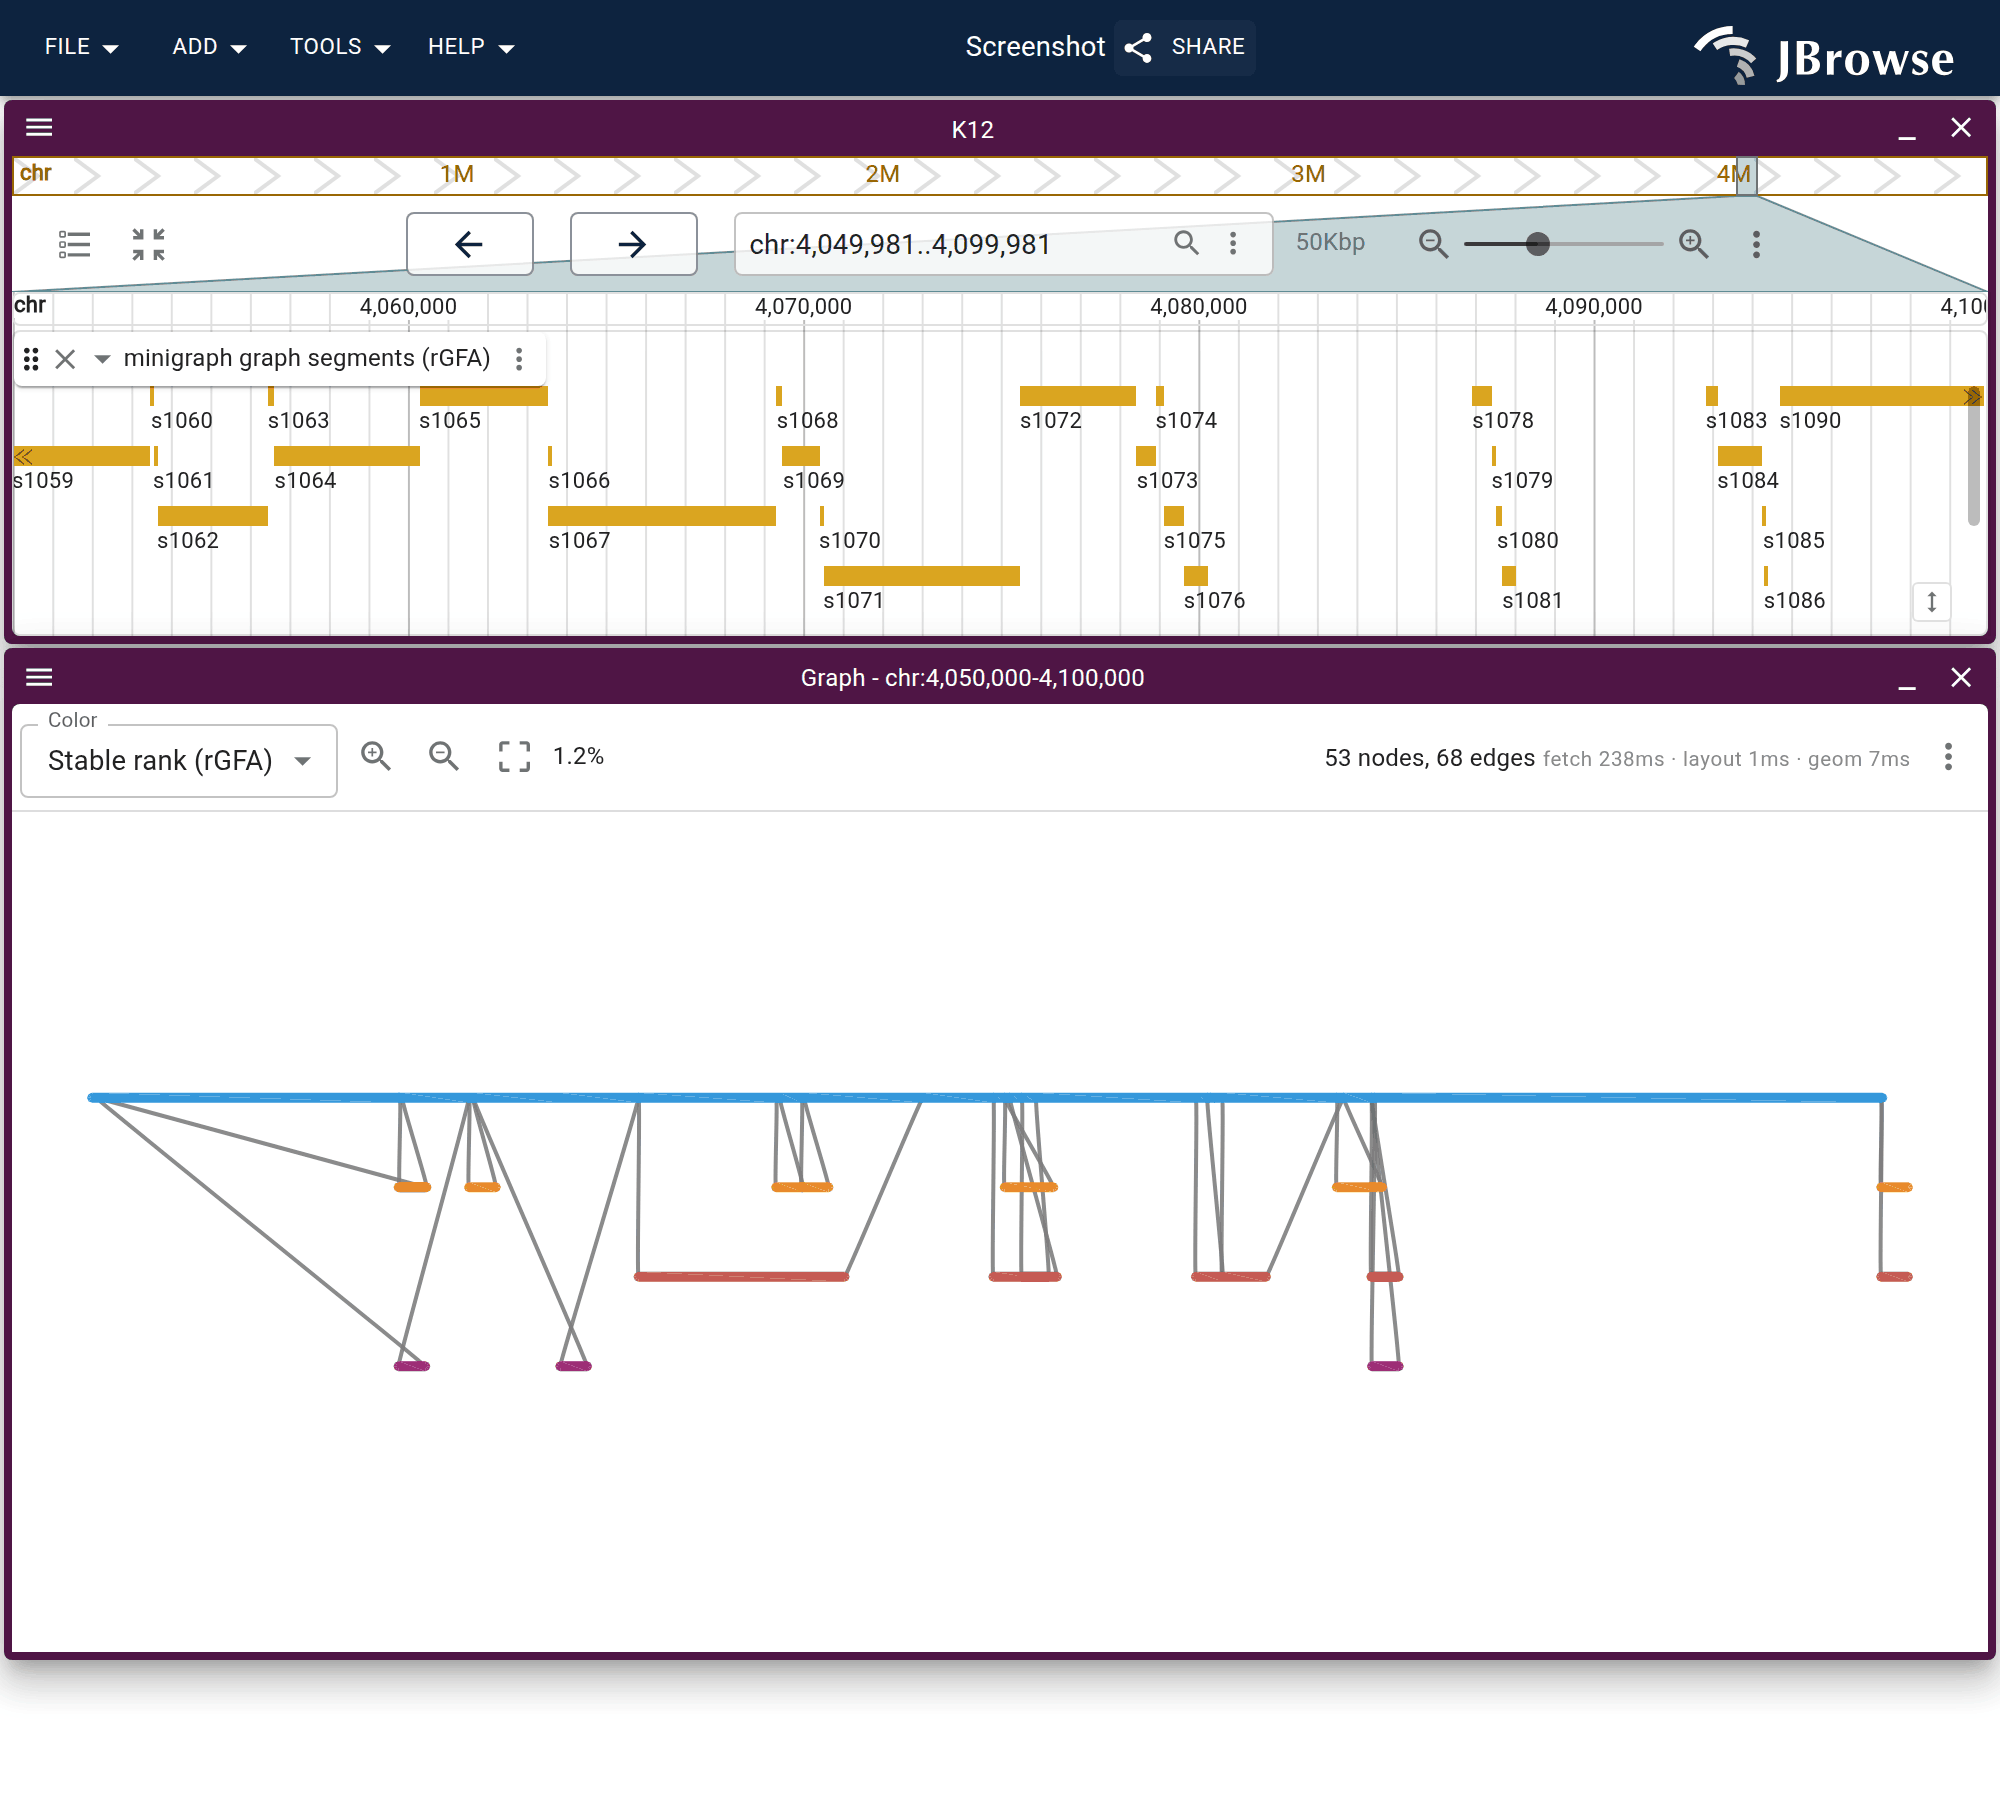
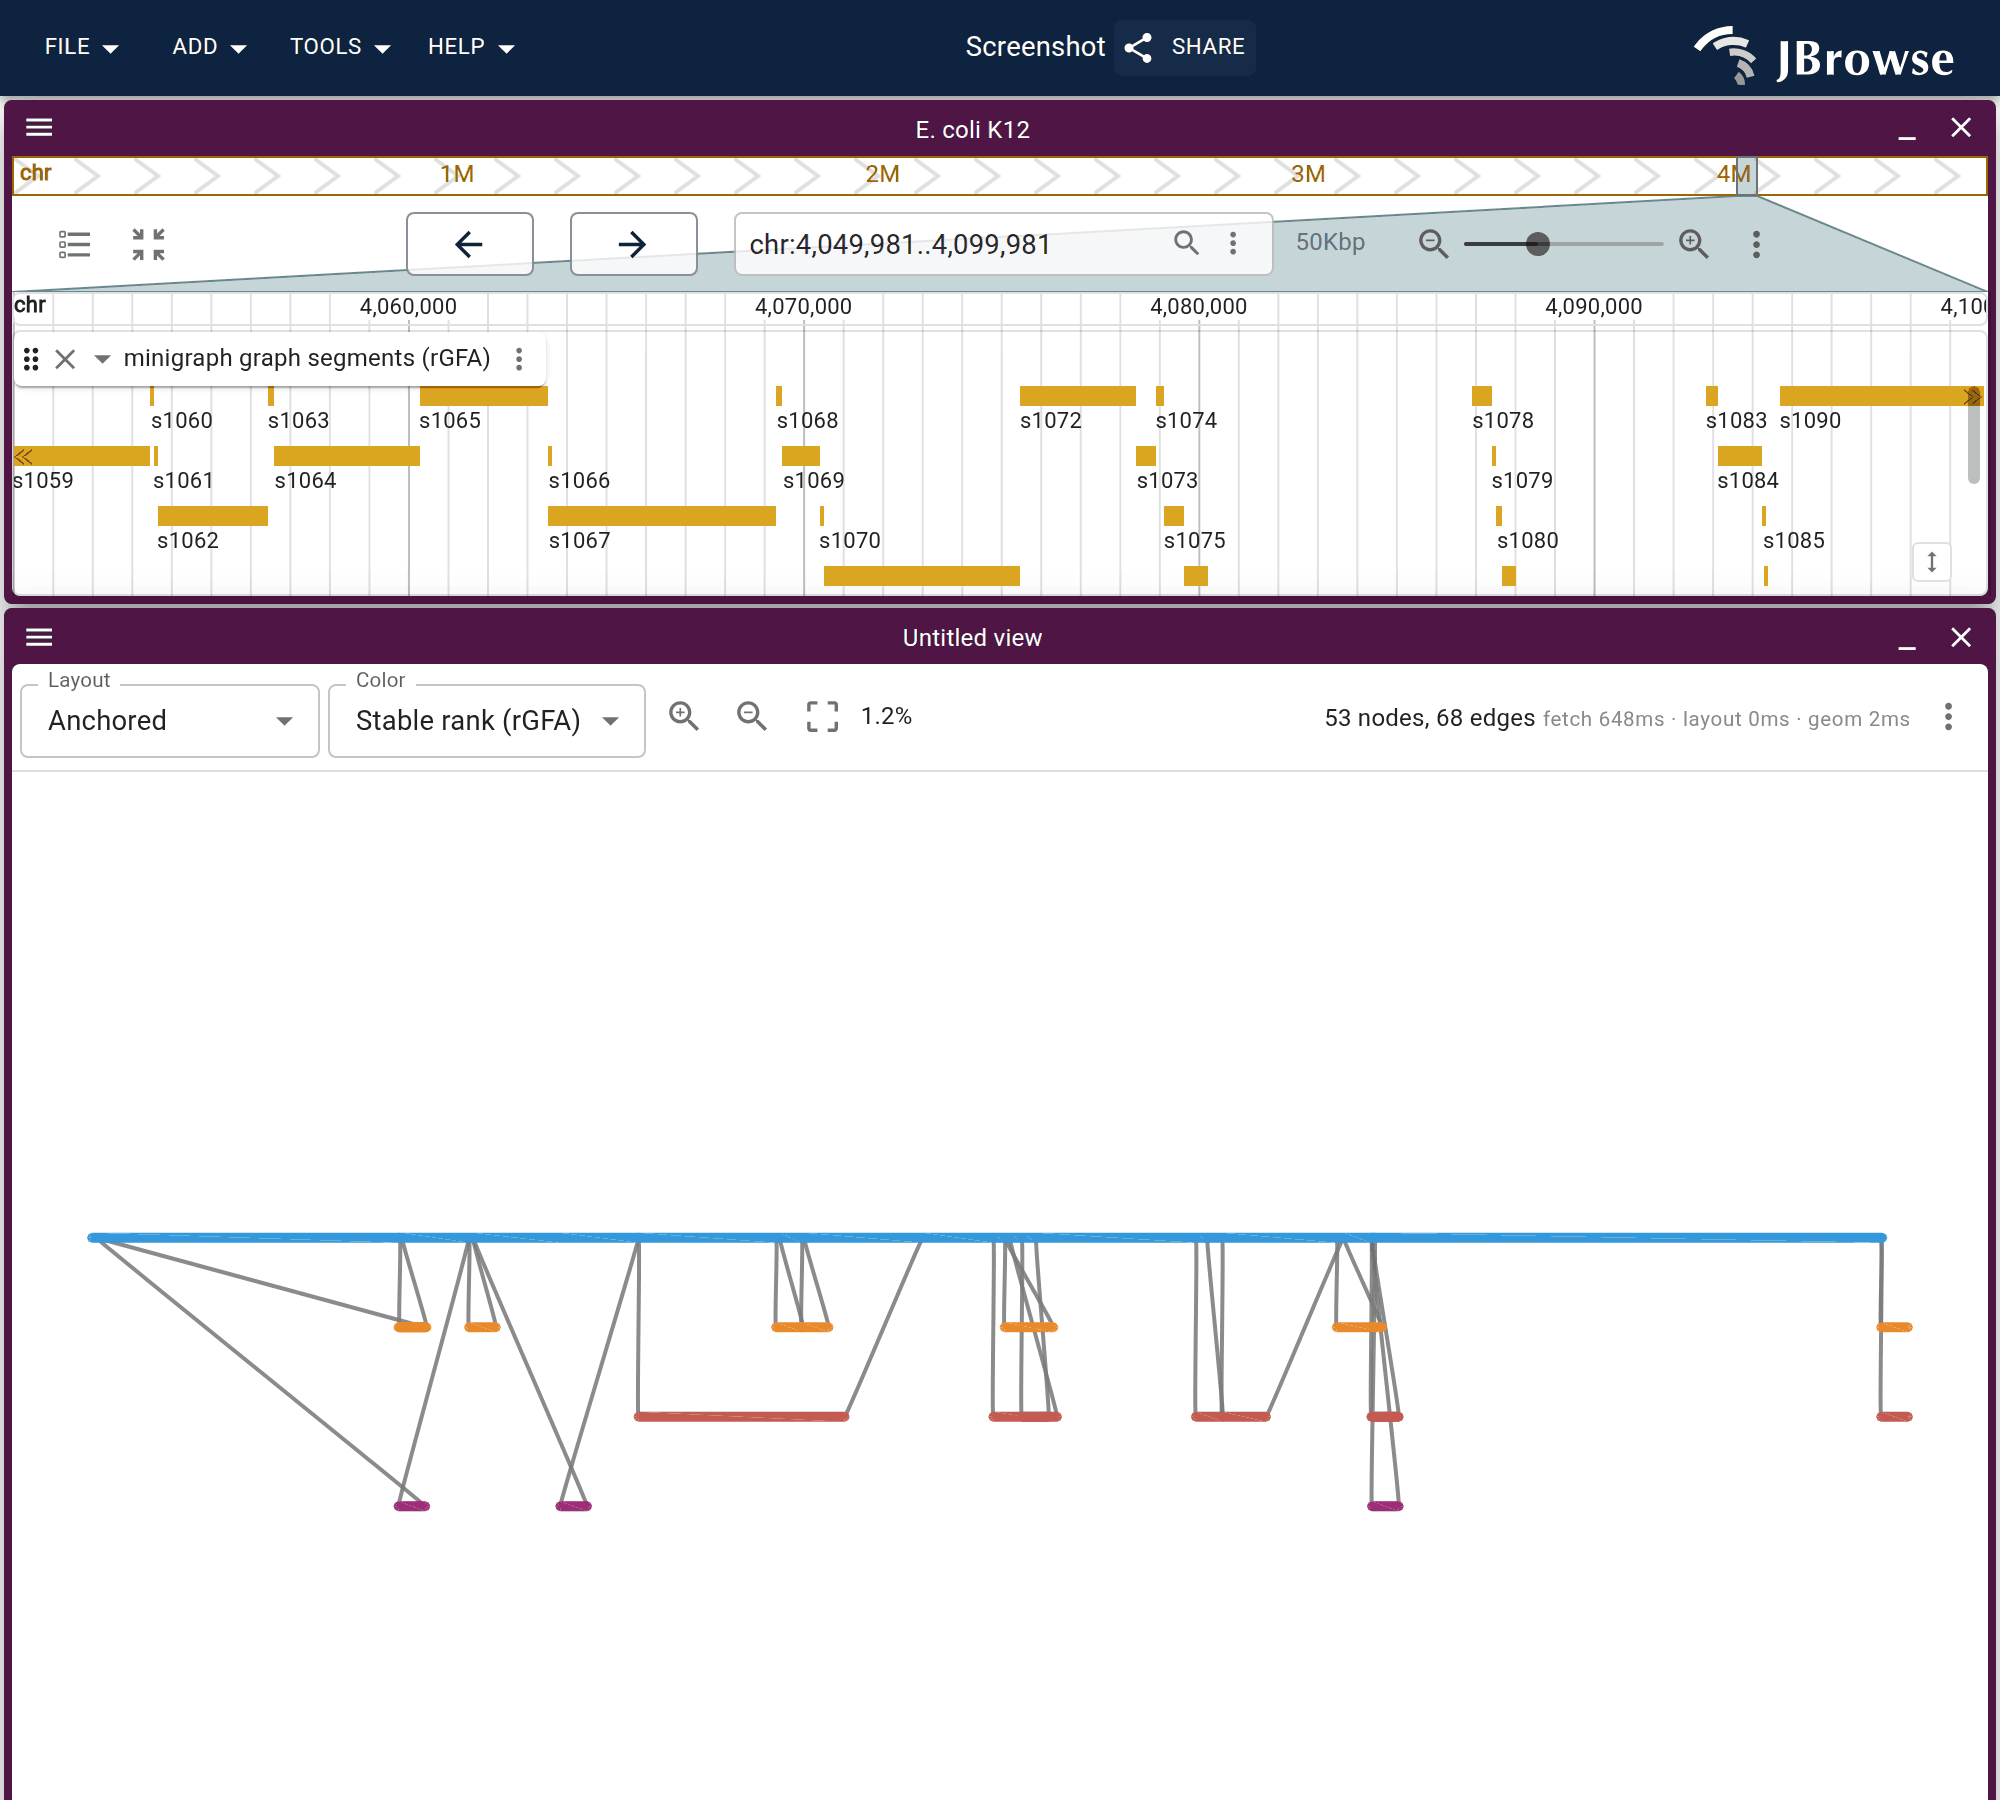
docs(pangenome): spec-drive the E. coli indexed-route figure
The last hand-captured graph figure. Its indexes are now hosted beside the GFAs
(98 kb for the four-strain graph, built by build_rgfa_tabix.sh), so the figure
renders from a session spec like the rest: an RgfaTabixAdapter track declared in
the session, a linear view of a 50 kb K12 window, and a GraphGenomeView carrying
the loadedTrackId/loadedRegion pair the launch menu writes. Reruns at 0.04%
drift, and every pangenome graph figure now carries a live link and a recipe
dialog.

Also picks up the stale galleryLinks entry for multiway_synteny/ecoli_one_vs_all,
whose spec is already committed.

Claude-Session: https://claude.ai/code/session_01AhXGWFWxwZ5wf2JcV2EUyJ

diff --git a/website/src/lib/galleryLinks.generated.ts b/website/src/lib/galleryLinks.generated.ts
@@ -13,6 +13,7 @@ export const specSessionUrls: Record<string, string> = {
   "multiway_synteny/grape_peach_cacao_gene_orthologs": "?config=https%3A%2F%2Fjbrowse.org%2Fdemos%2Fgrape_peach_cacao%2Fconfig.json&session=spec-%7B%22views%22%3A%5B%7B%22type%22%3A%22LinearSyntenyView%22%2C%22views%22%3A%5B%7B%22assembly%22%3A%22peach%22%2C%22loc%22%3A%22G7%3A19%2C290%2C000-19%2C362%2C000%22%2C%22tracks%22%3A%5B%7B%22trackId%22%3A%22peach_genes%22%2C%22showOnlyGenes%22%3Atrue%2C%22displayMode%22%3A%22compact%22%2C%22showDescriptions%22%3Afalse%7D%5D%7D%2C%7B%22assembly%22%3A%22grape%22%2C%22loc%22%3A%2211%3A1%2C840%2C000-1%2C927%2C000%22%2C%22tracks%22%3A%5B%7B%22trackId%22%3A%22grape_genes%22%2C%22showOnlyGenes%22%3Atrue%2C%22displayMode%22%3A%22compact%22%2C%22showDescriptions%22%3Afalse%7D%5D%7D%2C%7B%22assembly%22%3A%22cacao%22%2C%22loc%22%3A%22IX%3A4%2C665%2C000-4%2C743%2C000%22%2C%22tracks%22%3A%5B%7B%22trackId%22%3A%22cacao_genes%22%2C%22showOnlyGenes%22%3Atrue%2C%22displayMode%22%3A%22compact%22%2C%22showDescriptions%22%3Afalse%7D%5D%7D%5D%2C%22tracks%22%3A%5B%5B%22grape_peach_cacao_blocks%22%5D%2C%5B%22grape_peach_cacao_blocks%22%5D%5D%2C%22drawCurves%22%3Atrue%2C%22colorBy%22%3A%22reference%22%7D%5D%7D&sessionName=Screenshot",
   "multiway_synteny/ecoli_pangenome": "?config=https%3A%2F%2Fjbrowse.org%2Fdemos%2Fecoli_pangenome%2Fconfig.json&session=spec-%7B%22views%22%3A%5B%7B%22type%22%3A%22LinearSyntenyView%22%2C%22views%22%3A%5B%7B%22assembly%22%3A%22K12%22%7D%2C%7B%22assembly%22%3A%22Sakai%22%7D%2C%7B%22assembly%22%3A%22CFT073%22%7D%2C%7B%22assembly%22%3A%22NCTC86%22%7D%5D%2C%22tracks%22%3A%5B%5B%22ecoli_ava%22%5D%2C%5B%22ecoli_ava%22%5D%2C%5B%22ecoli_ava%22%5D%5D%2C%22drawCurves%22%3Afalse%2C%22colorBy%22%3A%22default%22%2C%22minAlignmentLength%22%3A10000%7D%5D%7D&sessionName=Screenshot",
   "multiway_synteny/ecoli_stx_island": "?config=https%3A%2F%2Fjbrowse.org%2Fdemos%2Fecoli_pangenome%2Fconfig.json&session=spec-%7B%22views%22%3A%5B%7B%22type%22%3A%22LinearSyntenyView%22%2C%22views%22%3A%5B%7B%22assembly%22%3A%22K12%22%2C%22loc%22%3A%22chr%3A1%2C026%2C000-1%2C126%2C000%22%2C%22tracks%22%3A%5B%7B%22trackId%22%3A%22K12_genes%22%2C%22showOnlyGenes%22%3Atrue%2C%22displayMode%22%3A%22compact%22%2C%22showDescriptions%22%3Afalse%7D%5D%7D%2C%7B%22assembly%22%3A%22Sakai%22%2C%22loc%22%3A%22chr%3A1%2C205%2C000-1%2C305%2C000%22%2C%22tracks%22%3A%5B%7B%22trackId%22%3A%22Sakai_genes%22%2C%22showOnlyGenes%22%3Atrue%2C%22displayMode%22%3A%22compact%22%2C%22showDescriptions%22%3Afalse%7D%5D%7D%5D%2C%22tracks%22%3A%5B%5B%22ecoli_ava%22%5D%5D%2C%22drawCurves%22%3Atrue%2C%22colorBy%22%3A%22default%22%7D%5D%7D&sessionName=Screenshot",
+  "multiway_synteny/ecoli_one_vs_all": "?config=https%3A%2F%2Fjbrowse.org%2Fdemos%2Fecoli_pangenome%2Fconfig.json&session=spec-%7B%22views%22%3A%5B%7B%22type%22%3A%22LinearGenomeView%22%2C%22assembly%22%3A%22K12%22%2C%22loc%22%3A%22chr%3A1%2C433%2C000-1%2C467%2C500%22%2C%22tracks%22%3A%5B%7B%22trackId%22%3A%22K12_genes%22%2C%22showOnlyGenes%22%3Atrue%2C%22displayMode%22%3A%22compact%22%2C%22showDescriptions%22%3Afalse%7D%2C%7B%22trackId%22%3A%22ecoli_ava%22%2C%22type%22%3A%22LGVSyntenyDisplay%22%2C%22groupBy%22%3A%7B%22type%22%3A%22mateAssembly%22%7D%2C%22height%22%3A250%7D%5D%7D%5D%7D&sessionName=Screenshot",
   "multiway_synteny/ecoli_import_form": "?config=https%3A%2F%2Fjbrowse.org%2Fdemos%2Fecoli_pangenome%2Fconfig.json&session=spec-%7B%22views%22%3A%5B%5D%7D&sessionName=Screenshot",
   "linear_synteny_gallery": "?config=test_data%2Fconfig_dotplot.json&session=share-4MjF5YGM_G&password=rByjt",
   "hs1_vs_mm39_synteny": "?config=test_data/hs1_vs_mm39/config.json&session=spec-%7B%22views%22%3A%5B%7B%22type%22%3A%22LinearSyntenyView%22%2C%22tracks%22%3A%5B%22hs1ToMm39.over.chain.pif%22%5D%2C%22minAlignmentLength%22%3A500000%2C%22drawCurves%22%3Afalse%2C%22autoDiagonalize%22%3Atrue%2C%22colorBy%22%3A%22query%22%2C%22alpha%22%3A0.4%2C%22levelHeights%22%3A%5B350%5D%2C%22views%22%3A%5B%7B%22assembly%22%3A%22hs1%22%7D%2C%7B%22assembly%22%3A%22mm39%22%7D%5D%7D%5D%7D&sessionName=Screenshot",
@@ -193,6 +194,7 @@ export const specSessionUrls: Record<string, string> = {
   "pangenome/local_subgraph": "?config=test_data/graphgenomeview/config.json&session=spec-%7B%22views%22%3A%5B%7B%22type%22%3A%22GraphGenomeView%22%2C%22gfaLocation%22%3A%7B%22uri%22%3A%22https%3A%2F%2Fjbrowse.org%2Fdemos%2Fecoli_pangenome%2Fecoli_pggb_subgraph.gfa%22%7D%2C%22colorScheme%22%3A%22depth%22%7D%5D%7D&sessionName=Screenshot",
   "pangenome/graph_rgfa": "?config=test_data/graphgenomeview/config.json&session=spec-%7B%22views%22%3A%5B%7B%22type%22%3A%22GraphGenomeView%22%2C%22gfaLocation%22%3A%7B%22uri%22%3A%22https%3A%2F%2Fjbrowse.org%2Fdemos%2Fecoli_pangenome%2Fecoli_rgfa_slice.gfa%22%7D%2C%22colorScheme%22%3A%22stable-rank%22%7D%5D%7D&sessionName=Screenshot",
   "pangenome/graph_force": "?config=test_data/graphgenomeview/config.json&session=spec-%7B%22views%22%3A%5B%7B%22type%22%3A%22GraphGenomeView%22%2C%22gfaLocation%22%3A%7B%22uri%22%3A%22https%3A%2F%2Fjbrowse.org%2Fdemos%2Fecoli_pangenome%2Fecoli_rgfa_slice.gfa%22%7D%2C%22layoutMode%22%3A%22force%22%2C%22colorScheme%22%3A%22stable-rank%22%7D%5D%7D&sessionName=Screenshot",
+  "pangenome/rgfa_subgraph_launch": "?config=test_data/graphgenomeview/config.json&session=spec-%7B%22sessionTracks%22%3A%5B%7B%22type%22%3A%22FeatureTrack%22%2C%22trackId%22%3A%22ecoli_minigraph_segments%22%2C%22name%22%3A%22minigraph%20graph%20segments%20(rGFA)%22%2C%22assemblyNames%22%3A%5B%22K12%22%5D%2C%22adapter%22%3A%7B%22type%22%3A%22RgfaTabixAdapter%22%2C%22uri%22%3A%22https%3A%2F%2Fjbrowse.org%2Fdemos%2Fecoli_pangenome%2Fecoli_minigraph%22%7D%7D%5D%2C%22views%22%3A%5B%7B%22type%22%3A%22LinearGenomeView%22%2C%22assembly%22%3A%22K12%22%2C%22loc%22%3A%22chr%3A4%2C050%2C000-4%2C100%2C000%22%2C%22tracks%22%3A%5B%22ecoli_minigraph_segments%22%5D%7D%2C%7B%22type%22%3A%22GraphGenomeView%22%2C%22loadedTrackId%22%3A%22ecoli_minigraph_segments%22%2C%22loadedRegion%22%3A%7B%22refName%22%3A%22chr%22%2C%22assemblyName%22%3A%22K12%22%2C%22start%22%3A4050000%2C%22end%22%3A4100000%7D%2C%22colorScheme%22%3A%22stable-rank%22%7D%5D%7D&sessionName=Screenshot",
   "pangenome/hprc_mhc_subgraph": "?config=test_data/graphgenomeview/hprc.json&session=spec-%7B%22views%22%3A%5B%7B%22type%22%3A%22LinearGenomeView%22%2C%22assembly%22%3A%22hg38%22%2C%22loc%22%3A%22chr6%3A32%2C500%2C000-32%2C560%2C000%22%2C%22tracks%22%3A%5B%22hg38_ncbiRefSeq_ucsc%22%2C%22hprc_minigraph_bubbles%22%2C%22hprc_minigraph_segments%22%5D%7D%2C%7B%22type%22%3A%22GraphGenomeView%22%2C%22loadedTrackId%22%3A%22hprc_minigraph_segments%22%2C%22loadedRegion%22%3A%7B%22refName%22%3A%22chr6%22%2C%22assemblyName%22%3A%22hg38%22%2C%22start%22%3A32500000%2C%22end%22%3A32560000%7D%2C%22colorScheme%22%3A%22stable-rank%22%7D%5D%7D&sessionName=Screenshot",
   "pangenome/hprc_mhc_bandage": "?config=test_data/graphgenomeview/hprc.json&session=spec-%7B%22views%22%3A%5B%7B%22type%22%3A%22LinearGenomeView%22%2C%22assembly%22%3A%22hg38%22%2C%22loc%22%3A%22chr6%3A32%2C500%2C000-32%2C560%2C000%22%2C%22tracks%22%3A%5B%22hg38_ncbiRefSeq_ucsc%22%2C%22hprc_minigraph_bubbles%22%2C%22hprc_minigraph_segments%22%5D%7D%2C%7B%22type%22%3A%22GraphGenomeView%22%2C%22loadedTrackId%22%3A%22hprc_minigraph_segments%22%2C%22loadedRegion%22%3A%7B%22refName%22%3A%22chr6%22%2C%22assemblyName%22%3A%22hg38%22%2C%22start%22%3A32500000%2C%22end%22%3A32560000%7D%2C%22layoutMode%22%3A%22force%22%2C%22colorScheme%22%3A%22stable-rank%22%7D%5D%7D&sessionName=Screenshot",
   "hprc2/mhc_matrix": "?config=test_data/hprc2/config.json&session=spec-%7B%22views%22%3A%5B%7B%22type%22%3A%22LinearGenomeView%22%2C%22assembly%22%3A%22hg38%22%2C%22loc%22%3A%22chr6%3A32%2C450%2C000-32%2C650%2C000%22%2C%22tracks%22%3A%5B%7B%22trackId%22%3A%22hprc2_wave_grch38%22%2C%22type%22%3A%22LinearMultiSampleVariantMatrixDisplay%22%2C%22height%22%3A700%7D%5D%7D%5D%7D&sessionName=Screenshot",

diff --git a/website/scripts/specs/graph.ts b/website/scripts/specs/graph.ts
@@ -26,6 +26,7 @@ const TOOLBAR_READY =
 
 const CONFIG = 'test_data/graphgenomeview/config.json'
 const DATA = 'https://jbrowse.org/demos/ecoli_pangenome'
+const ECOLI_SEGMENTS_TRACK = 'ecoli_minigraph_segments'
 
 // The HPRC figures take the other route into the same view: instead of a whole
 // GFA file, a GraphGenomeView carrying `loadedTrackId`/`loadedRegion` — the exact
@@ -121,6 +122,55 @@ export const graphSpecs: ScreenshotSpec[] = [
     diffThreshold: 0.1,
     viewportWidth: 1000,
     viewportHeight: 640,
+    hideTooltip: true,
+  },
+  // The indexed route on the tutorial's own four-strain graph: the rGFA
+  // segments as a feature track over a 50 kb K12 window, and the subgraph the
+  // launch menu cuts from that same window below it. Same two tabix indexes
+  // feed both, so the segment ids above are the nodes below. The track is
+  // declared in the session rather than the config because the config is the
+  // shared graphgenomeview fixture; the indexes are hosted beside the GFAs.
+  {
+    mode: 'url',
+    name: 'pangenome/rgfa_subgraph_launch',
+    url: sessionSpec(CONFIG, {
+      sessionTracks: [
+        {
+          type: 'FeatureTrack',
+          trackId: ECOLI_SEGMENTS_TRACK,
+          name: 'minigraph graph segments (rGFA)',
+          assemblyNames: ['K12'],
+          adapter: {
+            type: 'RgfaTabixAdapter',
+            uri: `${DATA}/ecoli_minigraph`,
+          },
+        },
+      ],
+      views: [
+        {
+          type: 'LinearGenomeView',
+          assembly: 'K12',
+          loc: 'chr:4,050,000-4,100,000',
+          tracks: [ECOLI_SEGMENTS_TRACK],
+        },
+        {
+          type: 'GraphGenomeView',
+          loadedTrackId: ECOLI_SEGMENTS_TRACK,
+          loadedRegion: {
+            refName: 'chr',
+            assemblyName: 'K12',
+            start: 4050000,
+            end: 4100000,
+          },
+          colorScheme: 'stable-rank',
+        },
+      ],
+    }),
+    readySelector: TOOLBAR_READY,
+    readyTimeout: 90000,
+    settleMs: 4000,
+    viewportWidth: 1000,
+    viewportHeight: 900,
     hideTooltip: true,
   },
   // The HPRC release-2 graph at HLA class II, anchored: the bubble and segment
